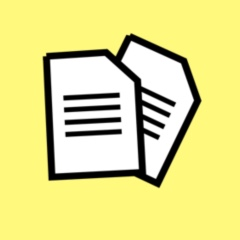
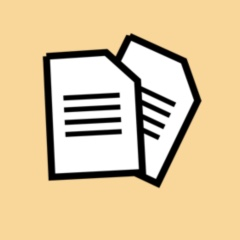
changed the whole multiBoard color scheme

diff --git a/multiboard/src/components/Cell.js b/multiboard/src/components/Cell.js
@@ -71,14 +71,14 @@ class Cell extends React.Component {
         if (!this.state.uploadSuccessful) {
             return (
                 <div className="cell ui segment" 
-                    style={{width: '240px', height: '240px', backgroundColor: '#fff97d' }}>
+                    style={{width: '240px', height: '240px', backgroundColor: '#F9D79A' }}>
                     <div className="field" style={{ marginTop: '150px', paddingLeft: '1px' }}>
                             <input 
                             style={{display: 'none' }} 
                             type="file" 
                             onChange={this.fileSelectedHandler} 
                             ref={fileInput => this.fileInput = fileInput} />
-                            <button className="ui button" onClick={() => this.fileInput.click()}>Choose File</button>
+                            <button className="ui button" style={{border: 'white'}} onClick={() => this.fileInput.click()}>Choose File</button>
                             <button className="ui button" onClick={this.FileUploadHandler}>Upload</button>
                         </div>
                    </div>
@@ -88,9 +88,9 @@ class Cell extends React.Component {
             if (this.state.typeOfMediaFile === "audio/mp3") {
                 return (
                     <div className="cell ui segment"
-                    style={{width: '240px', height: '240px', backgroundColor: '#fff97d' }}>
+                    style={{width: '240px', height: '240px', backgroundColor: '#F9D79A' }}>
                         <button className="ui button" style={{float: 'right', height: '5px', width: '5px',
-                        backgroundColor: '#fff97d', color: 'white' }} onClick={this.fileDelete}>X</button>
+                        backgroundColor: '#F9D79A', color: 'white' }} onClick={this.fileDelete}>X</button>
                         <div className="pic container" >
                             <img src={ require('./images/cassette.jpg') } alt={this.state.fileAddress.name}
                                 style={{
@@ -106,9 +106,9 @@ class Cell extends React.Component {
             else if (this.state.typeOfMediaFile === "image/jpeg") {
                 return (
                     <div className="cell ui segment"
-                    style={{width: '240px', height: '240px', backgroundColor: '#fff97d' }}>
+                    style={{width: '240px', height: '240px', backgroundColor: '#F9D79A' }}>
                         <button className="ui button" style={{float: 'right', height: '5px', width: '5px',
-                        backgroundColor: '#fff97d', color: 'white' }} onClick={this.fileDelete}>X</button>
+                        backgroundColor: '#F9D79A', color: 'white' }} onClick={this.fileDelete}>X</button>
                         <div className="pic container" >
                             <img src={ require('./images/image.jpg') } alt={this.state.fileAddress.name}
                              style={{width: '170px', height: '155px', paddingLeft: '32px', paddingTop: '-25px'}} />
@@ -123,9 +123,9 @@ class Cell extends React.Component {
             else {
                 return (
                     <div className="cell ui segment"
-                    style={{width: '240px', height: '240px', backgroundColor: '#fff97d' }}>
+                    style={{width: '240px', height: '240px', backgroundColor: '#F9D79A' }}>
                         <button className="ui button" style={{float: 'right', height: '5px', width: '5px',
-                        backgroundColor: '#fff97d', color: 'white' }} onClick={this.fileDelete}>X</button>
+                        backgroundColor: '#F9D79A', color: 'white' }} onClick={this.fileDelete}>X</button>
                         <div className="pic container" >
                             <img src={ require('./images/document.jpg') } alt={this.state.fileAddress.name} style={{
                                 width: '170px', height: '155px', paddingLeft: '32px', paddingTop: '-25px'}} />

diff --git a/multiboard/src/components/App.js b/multiboard/src/components/App.js
@@ -38,7 +38,7 @@ class App extends React.Component {
 
     addToArchive = () => {
         const localArray = this.state.archiveList;
-        localArray.push("https://firebasestorage.googleapis.com/v0/b/capstone-multiboard.appspot.com/o/Improv%20Demo.mp3?alt=media&token=189226bf-dab1-4f36-87fa-cd3b28f487e1");
+        localArray.push("https://firebasestorage.googleapis.com/v0/b/capstone-multiboard.appspot.com/o/finale.mp3?alt=media&token=62b3df91-d09f-4924-b4a7-3e97ecd1d63d");
         this.setState({archiveList: localArray});
     }
 
@@ -49,7 +49,7 @@ class App extends React.Component {
                     <ArchiveBar toArchive={this.state.archiveList}/>
                 </div> 
                 <div className="ui three column grid" style={{
-                    backgroundColor: '#ffedcc',
+                    backgroundColor: '#fcf5eb',
                     paddingLeft: '210px',
                     paddingTop: '10px'}}>
                 <div className="row">
